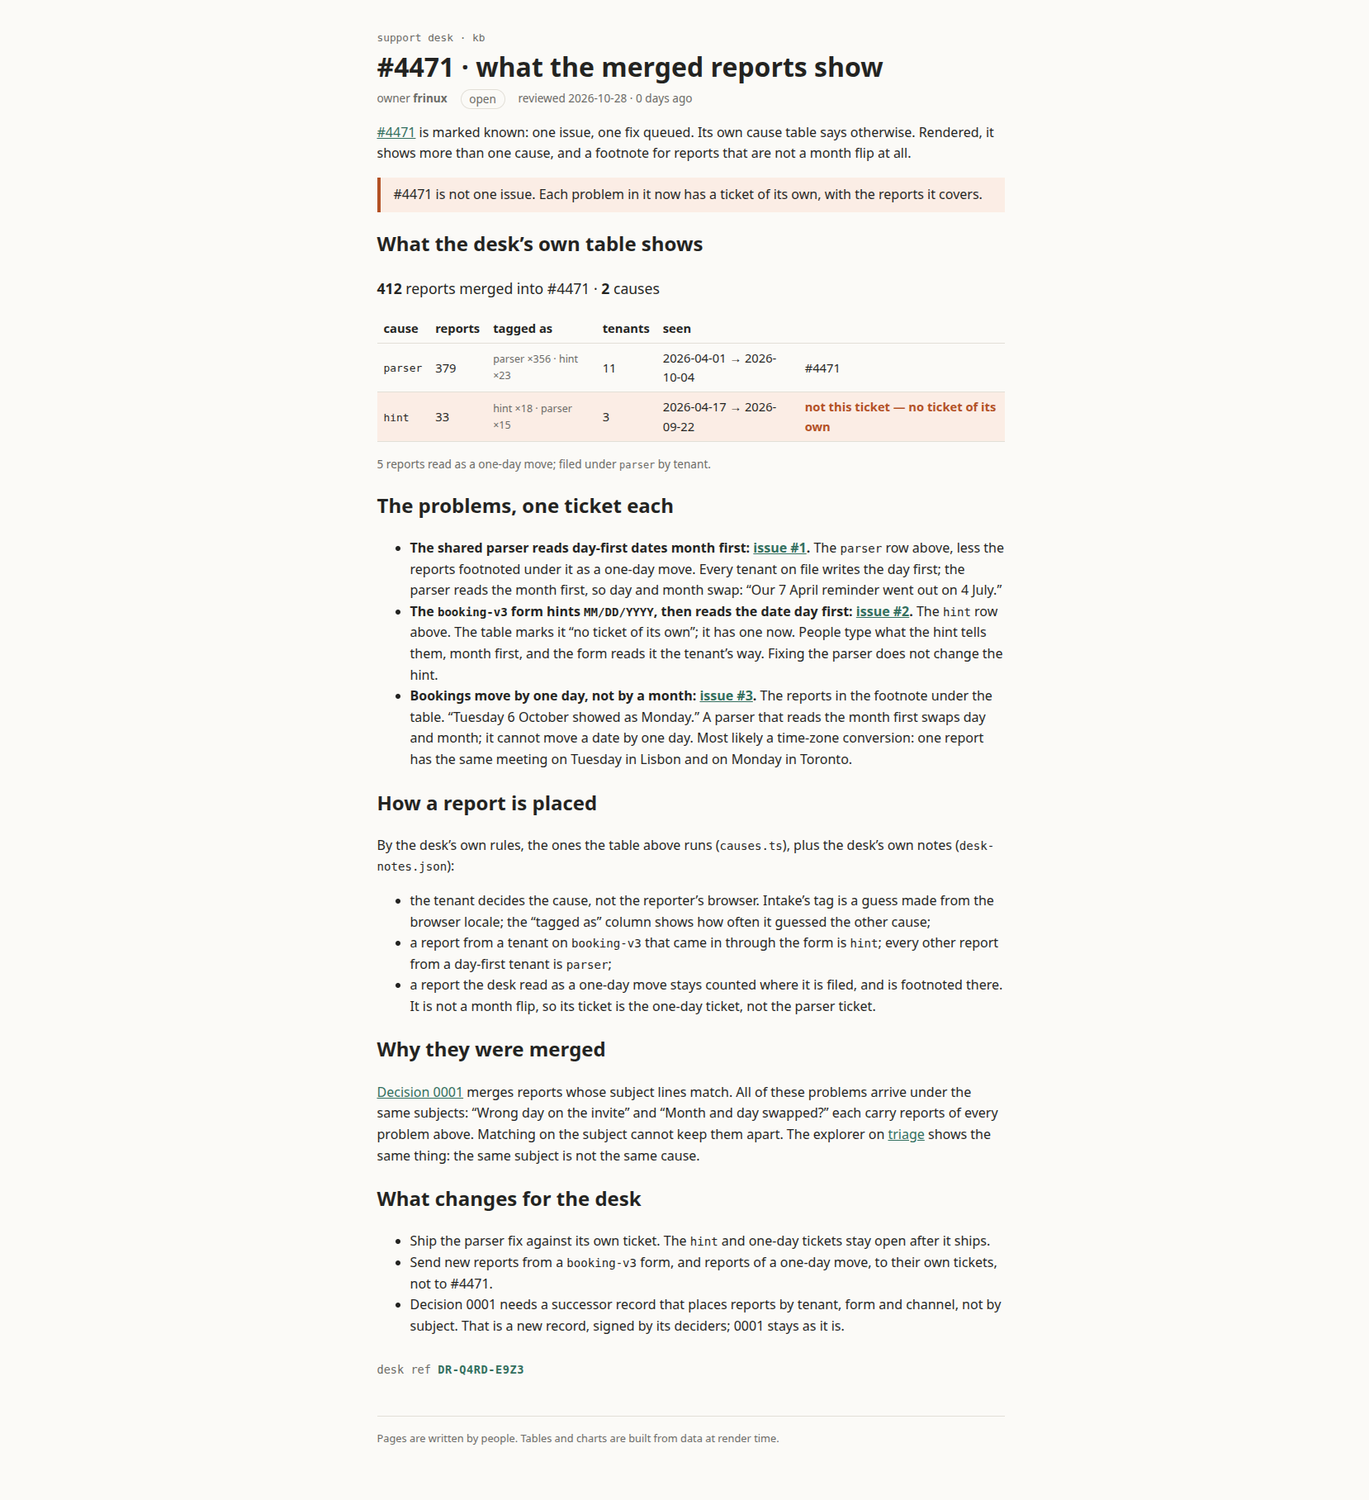
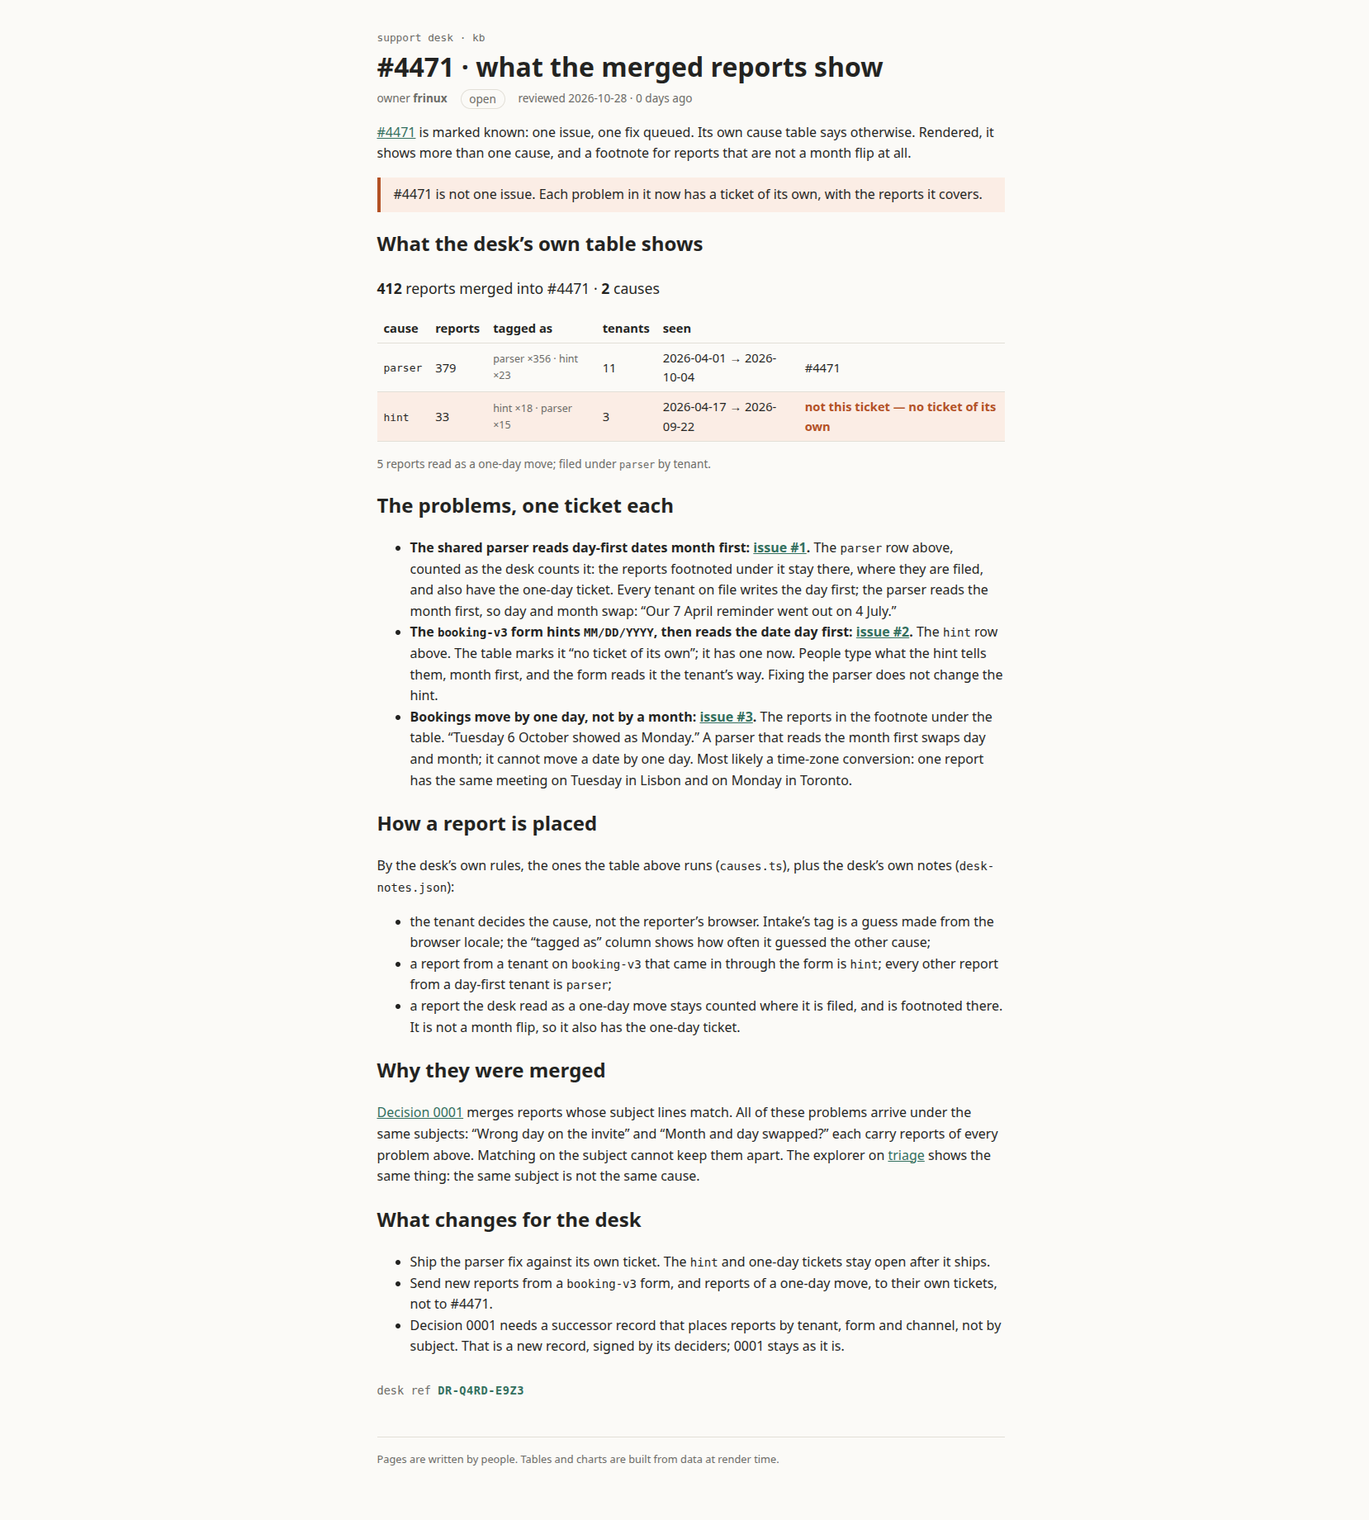
Page: parser counted as the desk counts it
The parser row keeps the reports footnoted as a one-day move, as the
desk's cause table does; the one-day ticket tracks them too. Matches
issue #1 (379 reports).

Changed region(s): [[0.2768, 0.0308, 0.7382, 0.9251], [0.2768, 0.9559, 0.3691, 0.9868]]

diff --git a/rendered/site/kb/incidents/4471/problems/index.html b/rendered/site/kb/incidents/4471/problems/index.html
@@ -9,11 +9,11 @@
 		<link href="../../../../_app/immutable/chunks/B2Ul7l_u.js" rel="modulepreload">
 		<link href="../../../../_app/immutable/chunks/BCPXOG7W.js" rel="modulepreload">
 		<link href="../../../../_app/immutable/chunks/Dh1V97Jm.js" rel="modulepreload">
-		<link href="../../../../_app/immutable/entry/app.IrpKXhLr.js" rel="modulepreload">
+		<link href="../../../../_app/immutable/entry/app.D68p9QW8.js" rel="modulepreload">
 		<link href="../../../../_app/immutable/nodes/0.BurGglGN.js" rel="modulepreload">
 		<link href="../../../../_app/immutable/chunks/DK3Fl9T5.js" rel="modulepreload">
-		<link href="../../../../_app/immutable/nodes/5.DiIomM6Q.js" rel="modulepreload">
-		<link href="../../../../_app/immutable/chunks/P4LIiT0T.js" rel="modulepreload">
+		<link href="../../../../_app/immutable/nodes/5.C832iTxc.js" rel="modulepreload">
+		<link href="../../../../_app/immutable/chunks/BtDhddv2.js" rel="modulepreload">
 		<link href="../../../../_app/immutable/chunks/BTPwLomz.js" rel="modulepreload">
 		<link href="../../../../_app/immutable/chunks/D_eX76ox.js" rel="modulepreload">
 		<link href="../../../../_app/immutable/chunks/BIy4WKJS.js" rel="modulepreload">
@@ -28,7 +28,8 @@
 says otherwise. Rendered, it shows more than one cause, and a footnote for reports that are
 not a month flip at all.</p> <aside class="warn svelte-17bri61"><!---->#4471 is not one issue. Each problem in it now has a ticket of its own, with the reports it
 covers.<!----></aside><!----> <h2>What the desk’s own table shows</h2> <p class="sum svelte-12oyimm"><strong>412</strong> reports merged into #4471 · <strong>2</strong> causes</p> <table><thead><tr><th>cause</th><th>reports</th><th>tagged as</th><th>tenants</th><th>seen</th><th></th></tr></thead><tbody><!--[--><tr class="svelte-12oyimm"><td class="svelte-12oyimm"><code>parser</code></td><td class="svelte-12oyimm">379</td><td class="tags svelte-12oyimm">parser ×356 · hint ×23</td><td class="svelte-12oyimm">11</td><td class="svelte-12oyimm">2026-04-01 → 2026-10-04</td><td class="svelte-12oyimm">#4471</td></tr><tr class="svelte-12oyimm wrong"><td class="svelte-12oyimm"><code>hint</code></td><td class="svelte-12oyimm">33</td><td class="tags svelte-12oyimm">hint ×18 · parser ×15</td><td class="svelte-12oyimm">3</td><td class="svelte-12oyimm">2026-04-17 → 2026-09-22</td><td class="svelte-12oyimm">not this ticket — no ticket of its own</td></tr><!--]--></tbody></table> <!--[--><!--[0--><p class="note svelte-12oyimm">5 reports read as a one-day move; filed under <code>parser</code> by tenant.</p><!--]--><!--[-1--><!--]--><!--]--><!----> <h2>The problems, one ticket each</h2> <ul><li><strong>The shared parser reads day-first dates month first: <a href="https://github.com/frinux/mega-s01e03-support-kb/issues/1" rel="nofollow">issue #1</a>.</strong> The <code>parser</code> row
-above, less the reports footnoted under it as a one-day move. Every tenant on file writes
+above, counted as the desk counts it: the reports footnoted under it stay there, where they
+are filed, and also have the one-day ticket. Every tenant on file writes
 the day first; the parser reads the month first, so day and month swap: “Our 7 April
 reminder went out on 4 July.”</li> <li><strong>The <code>booking-v3</code> form hints <code>MM/DD/YYYY</code>, then reads the date day first: <a href="https://github.com/frinux/mega-s01e03-support-kb/issues/2" rel="nofollow">issue #2</a>.</strong> The <code>hint</code> row
 above. The table marks it “no ticket of its own”; it has one now. People type what the hint
@@ -40,7 +41,7 @@ conversion: one report has the same meeting on Tuesday in Lisbon and on Monday i
 notes (<code>desk-notes.json</code>):</p> <ul><li>the tenant decides the cause, not the reporter’s browser. Intake’s tag is a guess made from
 the browser locale; the “tagged as” column shows how often it guessed the other cause;</li> <li>a report from a tenant on <code>booking-v3</code> that came in through the form is <code>hint</code>; every other
 report from a day-first tenant is <code>parser</code>;</li> <li>a report the desk read as a one-day move stays counted where it is filed, and is footnoted
-there. It is not a month flip, so its ticket is the one-day ticket, not the parser ticket.</li></ul> <h2>Why they were merged</h2> <p><a href="/kb/decisions/0001-dedupe-by-subject">Decision 0001</a> merges reports whose subject lines
+there. It is not a month flip, so it also has the one-day ticket.</li></ul> <h2>Why they were merged</h2> <p><a href="/kb/decisions/0001-dedupe-by-subject">Decision 0001</a> merges reports whose subject lines
 match. All of these problems arrive under the same subjects: “Wrong day on the invite” and
 “Month and day swapped?” each carry reports of every problem above. Matching on the subject
 cannot keep them apart. The explorer on <a href="/kb/triage/dedupe">triage</a> shows the same thing:
@@ -51,16 +52,16 @@ not by subject. That is a new record, signed by its deciders; 0001 stays as it i
 			
 			<script>
 				{
-					__sveltekit_8fy4ou = {
+					__sveltekit_88kd6i = {
 						base: new URL("../../../..", location).pathname.slice(0, -1),
-						version: "1793209737935"
+						version: "1793209880459"
 					};
 
 					const element = document.currentScript.parentElement;
 
 					import("../../../../_app/immutable/entry/start.CH5w6lId.js").then(async (kit) => {
-						kit.init(__sveltekit_8fy4ou);
-						const app = await import("../../../../_app/immutable/entry/app.IrpKXhLr.js");
+						kit.init(__sveltekit_88kd6i);
+						const app = await import("../../../../_app/immutable/entry/app.D68p9QW8.js");
 						kit.start(app, element, {
 							node_ids: [0, 5],
 							data: [null,null],

diff --git a/rendered/site/_app/immutable/chunks/BtDhddv2.js b/rendered/site/_app/immutable/chunks/BtDhddv2.js
@@ -1,7 +1,8 @@
 import{t as e}from"./DK3Fl9T5.js";import{E as t,F as n,H as r,I as i,K as a,L as o,N as s,O as c,R as l,S as u,T as d,U as f,W as p,_ as m,k as h,q as g,r as _,t as v,w as y}from"./BCPXOG7W.js";import{t as b}from"./BTPwLomz.js";import{t as x}from"./D_eX76ox.js";import{t as S}from"./BIy4WKJS.js";var C=`0123456789ABCDEFGHJKMNPQRSTVWXYZ`;function w(e,t){let n=t>>>0;for(let t=0;t<e.length;t++)n^=e.charCodeAt(t),n=Math.imul(n,16777619)>>>0;return n}function T(e){let t=e.trim(),n=w(t,2166136261),r=w(t,2654435769),i=BigInt(n)<<8n|BigInt(r&255),a=``;for(let e=0;e<8;e++)a=C[Number(i&31n)]+a,i>>=5n;return`DR-${a.slice(0,4)}-${a.slice(4)}`}var E=t(`<p class="stamp svelte-1280m42">desk ref <b class="svelte-1280m42"> </b></p>`),D=t(`<p class="stamp missing svelte-1280m42">no desk ref: this page isn't signed (no <code>signature</code> in its frontmatter)</p>`);function O(e,t){p(t,!0);let a=r(()=>t.signature?T(t.signature):null);var c=d(),_=i(c),v=e=>{var t=E(),r=l(n(t)),i=o(r,!0);g(t),s(()=>u(i,h(a))),y(e,t)},b=e=>{var t=D();y(e,t)};m(_,e=>{h(a)?e(v):e(b,-1)}),y(e,c),f()}var k=e({default:()=>R,metadata:()=>A}),A={layout:`runbook`,title:`#4471 · what the merged reports show`,owner:`frinux`,status:`open`,reviewed:`2026-10-28T00:00:00.000Z`,signature:`frinux`},{layout:j,title:M,owner:N,status:P,reviewed:F,signature:I}=A,L=t(`<p><a href="/kb/incidents/4471">#4471</a> is marked known: one issue, one fix queued. Its own cause table
 says otherwise. Rendered, it shows more than one cause, and a footnote for reports that are
 not a month flip at all.</p> <!> <h2>What the desk’s own table shows</h2> <!> <h2>The problems, one ticket each</h2> <ul><li><strong>The shared parser reads day-first dates month first: <a href="https://github.com/frinux/mega-s01e03-support-kb/issues/1" rel="nofollow">issue #1</a>.</strong> The <code>parser</code> row
-above, less the reports footnoted under it as a one-day move. Every tenant on file writes
+above, counted as the desk counts it: the reports footnoted under it stay there, where they
+are filed, and also have the one-day ticket. Every tenant on file writes
 the day first; the parser reads the month first, so day and month swap: “Our 7 April
 reminder went out on 4 July.”</li> <li><strong>The <code>booking-v3</code> form hints <code>MM/DD/YYYY</code>, then reads the date day first: <a href="https://github.com/frinux/mega-s01e03-support-kb/issues/2" rel="nofollow">issue #2</a>.</strong> The <code>hint</code> row
 above. The table marks it “no ticket of its own”; it has one now. People type what the hint
@@ -13,7 +14,7 @@ conversion: one report has the same meeting on Tuesday in Lisbon and on Monday i
 notes (<code>desk-notes.json</code>):</p> <ul><li>the tenant decides the cause, not the reporter’s browser. Intake’s tag is a guess made from
 the browser locale; the “tagged as” column shows how often it guessed the other cause;</li> <li>a report from a tenant on <code>booking-v3</code> that came in through the form is <code>hint</code>; every other
 report from a day-first tenant is <code>parser</code>;</li> <li>a report the desk read as a one-day move stays counted where it is filed, and is footnoted
-there. It is not a month flip, so its ticket is the one-day ticket, not the parser ticket.</li></ul> <h2>Why they were merged</h2> <p><a href="/kb/decisions/0001-dedupe-by-subject">Decision 0001</a> merges reports whose subject lines
+there. It is not a month flip, so it also has the one-day ticket.</li></ul> <h2>Why they were merged</h2> <p><a href="/kb/decisions/0001-dedupe-by-subject">Decision 0001</a> merges reports whose subject lines
 match. All of these problems arrive under the same subjects: “Wrong day on the invite” and
 “Month and day swapped?” each carry reports of every problem above. Matching on the subject
 cannot keep them apart. The explorer on <a href="/kb/triage/dedupe">triage</a> shows the same thing:

diff --git a/rendered/site/_app/immutable/nodes/2.B8LXgTn_.js b/rendered/site/_app/immutable/nodes/2.B8LXgTn_.js
@@ -1,0 +1,2 @@
+import{E as e,F as t,I as n,K as r,L as i,N as a,R as o,S as s,U as c,W as l,c as u,d,h as f,i as p,k as m,q as h,r as g,t as _,w as v}from"../chunks/BCPXOG7W.js";import{n as y,r as b,t as x}from"../chunks/BTPwLomz.js";import{t as S}from"../chunks/YX22L_Ud.js";import{t as C}from"../chunks/C7NBqcQG.js";import{t as w}from"../chunks/BtDhddv2.js";import{t as T}from"../chunks/BGqJVSDw.js";var E=e(`<tr><td><a> </a></td><td> </td><td> </td><td> </td></tr>`),D=e(`<table><thead><tr><th>page</th><th>owner</th><th>status</th><th>reviewed</th></tr></thead><tbody></tbody></table>`);function O(e,n){l(n,!1);let r=Object.entries(Object.assign({"/src/routes/kb/decisions/0001-dedupe-by-subject/+page.svx":S,"/src/routes/kb/incidents/4471/+page.svx":C,"/src/routes/kb/incidents/4471/problems/+page.svx":w,"/src/routes/kb/triage/dedupe/+page.svx":T})).map(([e,t])=>({href:e.replace(`/src/routes`,``).replace(`/+page.svx`,``),...t.metadata})).sort((e,t)=>e.href.localeCompare(t.href));p();var g=D(),_=o(t(g));f(_,5,()=>r,e=>e.href,(e,n)=>{var r=E(),c=t(r),l=t(c),f=i(l,!0);h(c);var p=o(c),g=i(p,!0),_=o(p),x=i(_,!0),S=o(_);let C;var w=i(S,!0);h(r),a((e,t)=>{u(l,`href`,m(n).href),s(f,m(n).title),s(g,m(n).owner),s(x,m(n).status),C=d(S,1,`svelte-tbc1ha`,null,C,{stale:e}),s(w,t)},[()=>y(m(n).reviewed)>180,()=>b(m(n).reviewed)]),v(e,r)}),h(_),h(g),v(e,g),c()}var k={layout:`runbook`,title:`Support knowledge base`,owner:`support desk`,status:`living`,reviewed:`2026-09-28T00:00:00.000Z`},{layout:A,title:j,owner:M,status:N,reviewed:P}=k,F=e(`<p>What the support desk knows, kept next to the code that knows it. One desk, every product: <code>sched-prod</code> (calendar invites for about 300k people) and the rest. When something breaks, the reports land here first.</p> <p>Start with <a href="/kb/triage/dedupe">triage</a> if you are new on the desk.</p> <h2>Pages</h2> <!> <h2>Writing a page</h2> <p>Keep the words here and the logic in <code>src/lib</code>. A number that can be computed should be
+computed by a component, not typed into a paragraph.</p>`,1);function I(e,t){let i=_(t,[`children`,`$$slots`,`$$events`,`$$legacy`]);x(e,g(()=>i,()=>k,{children:(e,t)=>{var i=F();O(o(n(i),6),{}),r(4),v(e,i)},$$slots:{default:!0}}))}export{I as component};

diff --git a/rendered/site/kb/index.html b/rendered/site/kb/index.html
@@ -9,16 +9,16 @@
 		<link href="../_app/immutable/chunks/B2Ul7l_u.js" rel="modulepreload">
 		<link href="../_app/immutable/chunks/BCPXOG7W.js" rel="modulepreload">
 		<link href="../_app/immutable/chunks/Dh1V97Jm.js" rel="modulepreload">
-		<link href="../_app/immutable/entry/app.IrpKXhLr.js" rel="modulepreload">
+		<link href="../_app/immutable/entry/app.D68p9QW8.js" rel="modulepreload">
 		<link href="../_app/immutable/nodes/0.BurGglGN.js" rel="modulepreload">
 		<link href="../_app/immutable/chunks/DK3Fl9T5.js" rel="modulepreload">
-		<link href="../_app/immutable/nodes/2.7tSA5iwi.js" rel="modulepreload">
+		<link href="../_app/immutable/nodes/2.B8LXgTn_.js" rel="modulepreload">
 		<link href="../_app/immutable/chunks/BTPwLomz.js" rel="modulepreload">
 		<link href="../_app/immutable/chunks/YX22L_Ud.js" rel="modulepreload">
 		<link href="../_app/immutable/chunks/C7NBqcQG.js" rel="modulepreload">
 		<link href="../_app/immutable/chunks/D_eX76ox.js" rel="modulepreload">
 		<link href="../_app/immutable/chunks/BIy4WKJS.js" rel="modulepreload">
-		<link href="../_app/immutable/chunks/P4LIiT0T.js" rel="modulepreload">
+		<link href="../_app/immutable/chunks/BtDhddv2.js" rel="modulepreload">
 		<link href="../_app/immutable/chunks/BGqJVSDw.js" rel="modulepreload">
 		<!--e2jw2j--><!----><title>Support knowledge base · support kb</title>
 		<link href="../_app/immutable/assets/runbook.COyw0cbZ.css" rel="stylesheet">
@@ -35,16 +35,16 @@ computed by a component, not typed into a paragraph.</p><!----></main> <footer c
 			
 			<script>
 				{
-					__sveltekit_8fy4ou = {
+					__sveltekit_88kd6i = {
 						base: new URL("..", location).pathname.slice(0, -1),
-						version: "1793209737935"
+						version: "1793209880459"
 					};
 
 					const element = document.currentScript.parentElement;
 
 					import("../_app/immutable/entry/start.CH5w6lId.js").then(async (kit) => {
-						kit.init(__sveltekit_8fy4ou);
-						const app = await import("../_app/immutable/entry/app.IrpKXhLr.js");
+						kit.init(__sveltekit_88kd6i);
+						const app = await import("../_app/immutable/entry/app.D68p9QW8.js");
 						kit.start(app, element, {
 							node_ids: [0, 2],
 							data: [null,null],

diff --git a/rendered/site/_app/immutable/entry/app.D68p9QW8.js b/rendered/site/_app/immutable/entry/app.D68p9QW8.js
@@ -1,0 +1,2 @@
+const __vite__mapDeps=(i,m=__vite__mapDeps,d=(m.f||(m.f=["../nodes/0.BurGglGN.js","../chunks/DK3Fl9T5.js","../chunks/BCPXOG7W.js","../nodes/1.mOwa9YdW.js","../chunks/Dh1V97Jm.js","./payload.DSmR2FwN.js","../nodes/2.B8LXgTn_.js","../chunks/BTPwLomz.js","../assets/runbook.COyw0cbZ.css","../chunks/YX22L_Ud.js","../chunks/C7NBqcQG.js","../chunks/D_eX76ox.js","../chunks/BIy4WKJS.js","../assets/Callout.AbLv9dM_.css","../assets/CauseTable.DuKfINX_.css","../assets/_page.BwRNheVv.css","../chunks/BtDhddv2.js","../assets/_page.WePi3wDe.css","../chunks/BGqJVSDw.js","../assets/_page.DO6Yid7X.css","../assets/2.Bt0MwIZg.css","../nodes/3.DRxPfvn3.js","../nodes/4.r04HXAAh.js","../nodes/5.C832iTxc.js","../nodes/6.sFtxrtyV.js"])))=>i.map(i=>d[i]);
+import{t as e}from"../chunks/CRzLMJPS.js";var t={},n=[()=>e(()=>import(`../nodes/0.BurGglGN.js`),__vite__mapDeps([0,1,2]),import.meta.url),()=>e(()=>import(`../nodes/1.mOwa9YdW.js`),__vite__mapDeps([3,2,4,5]),import.meta.url),()=>e(()=>import(`../nodes/2.B8LXgTn_.js`),__vite__mapDeps([6,2,7,8,9,1,10,11,12,13,14,15,16,17,18,19,20]),import.meta.url),()=>e(()=>import(`../nodes/3.DRxPfvn3.js`),__vite__mapDeps([21,9,1,2,7,8]),import.meta.url),()=>e(()=>import(`../nodes/4.r04HXAAh.js`),__vite__mapDeps([22,10,1,2,7,8,11,12,13,14,15]),import.meta.url),()=>e(()=>import(`../nodes/5.C832iTxc.js`),__vite__mapDeps([23,16,1,2,7,8,11,12,13,14,17]),import.meta.url),()=>e(()=>import(`../nodes/6.sFtxrtyV.js`),__vite__mapDeps([24,18,1,2,7,8,12,13,19]),import.meta.url)],r=[],i={"/kb":[2],"/kb/decisions/0001-dedupe-by-subject":[3],"/kb/incidents/4471":[4],"/kb/incidents/4471/problems":[5],"/kb/triage/dedupe":[6]},a={handleError:(({kind:e,error:t})=>{e===`unknown`&&console.error(t)}),reroute:(()=>{}),transport:{}},o=Object.fromEntries(Object.entries(a.transport).map(([e,t])=>[e,t.decode])),s=Object.fromEntries(Object.entries(a.transport).map(([e,t])=>[e,t.encode])),c=!1,l=(e,t)=>o[e](t),u=()=>e(()=>import(`../chunks/Bjy-W4x2.js`).then(e=>e.default),[],import.meta.url);export{l as decode,o as decoders,i as dictionary,s as encoders,u as get_error_template,c as hash,a as hooks,t as matchers,n as nodes,r as server_loads};

diff --git a/rendered/site/kb/decisions/0001-dedupe-by-subject/index.html b/rendered/site/kb/decisions/0001-dedupe-by-subject/index.html
@@ -9,7 +9,7 @@
 		<link href="../../../_app/immutable/chunks/B2Ul7l_u.js" rel="modulepreload">
 		<link href="../../../_app/immutable/chunks/BCPXOG7W.js" rel="modulepreload">
 		<link href="../../../_app/immutable/chunks/Dh1V97Jm.js" rel="modulepreload">
-		<link href="../../../_app/immutable/entry/app.IrpKXhLr.js" rel="modulepreload">
+		<link href="../../../_app/immutable/entry/app.D68p9QW8.js" rel="modulepreload">
 		<link href="../../../_app/immutable/nodes/0.BurGglGN.js" rel="modulepreload">
 		<link href="../../../_app/immutable/chunks/DK3Fl9T5.js" rel="modulepreload">
 		<link href="../../../_app/immutable/nodes/3.DRxPfvn3.js" rel="modulepreload">
@@ -26,16 +26,16 @@ engineering merges them later.</li></ul><!----></main> <footer class="svelte-e2j
 			
 			<script>
 				{
-					__sveltekit_8fy4ou = {
+					__sveltekit_88kd6i = {
 						base: new URL("../../..", location).pathname.slice(0, -1),
-						version: "1793209737935"
+						version: "1793209880459"
 					};
 
 					const element = document.currentScript.parentElement;
 
 					import("../../../_app/immutable/entry/start.CH5w6lId.js").then(async (kit) => {
-						kit.init(__sveltekit_8fy4ou);
-						const app = await import("../../../_app/immutable/entry/app.IrpKXhLr.js");
+						kit.init(__sveltekit_88kd6i);
+						const app = await import("../../../_app/immutable/entry/app.D68p9QW8.js");
 						kit.start(app, element, {
 							node_ids: [0, 3],
 							data: [null,null],

diff --git a/rendered/site/kb/incidents/4471/index.html b/rendered/site/kb/incidents/4471/index.html
@@ -9,7 +9,7 @@
 		<link href="../../../_app/immutable/chunks/B2Ul7l_u.js" rel="modulepreload">
 		<link href="../../../_app/immutable/chunks/BCPXOG7W.js" rel="modulepreload">
 		<link href="../../../_app/immutable/chunks/Dh1V97Jm.js" rel="modulepreload">
-		<link href="../../../_app/immutable/entry/app.IrpKXhLr.js" rel="modulepreload">
+		<link href="../../../_app/immutable/entry/app.D68p9QW8.js" rel="modulepreload">
 		<link href="../../../_app/immutable/nodes/0.BurGglGN.js" rel="modulepreload">
 		<link href="../../../_app/immutable/chunks/DK3Fl9T5.js" rel="modulepreload">
 		<link href="../../../_app/immutable/nodes/4.r04HXAAh.js" rel="modulepreload">
@@ -30,16 +30,16 @@ first. The fix is queued.</p> <aside class="note svelte-17bri61"><!---->Known. O
 			
 			<script>
 				{
-					__sveltekit_8fy4ou = {
+					__sveltekit_88kd6i = {
 						base: new URL("../../..", location).pathname.slice(0, -1),
-						version: "1793209737935"
+						version: "1793209880459"
 					};
 
 					const element = document.currentScript.parentElement;
 
 					import("../../../_app/immutable/entry/start.CH5w6lId.js").then(async (kit) => {
-						kit.init(__sveltekit_8fy4ou);
-						const app = await import("../../../_app/immutable/entry/app.IrpKXhLr.js");
+						kit.init(__sveltekit_88kd6i);
+						const app = await import("../../../_app/immutable/entry/app.D68p9QW8.js");
 						kit.start(app, element, {
 							node_ids: [0, 4],
 							data: [null,null],

diff --git a/rendered/site/kb/triage/dedupe/index.html b/rendered/site/kb/triage/dedupe/index.html
@@ -9,7 +9,7 @@
 		<link href="../../../_app/immutable/chunks/B2Ul7l_u.js" rel="modulepreload">
 		<link href="../../../_app/immutable/chunks/BCPXOG7W.js" rel="modulepreload">
 		<link href="../../../_app/immutable/chunks/Dh1V97Jm.js" rel="modulepreload">
-		<link href="../../../_app/immutable/entry/app.IrpKXhLr.js" rel="modulepreload">
+		<link href="../../../_app/immutable/entry/app.D68p9QW8.js" rel="modulepreload">
 		<link href="../../../_app/immutable/nodes/0.BurGglGN.js" rel="modulepreload">
 		<link href="../../../_app/immutable/chunks/DK3Fl9T5.js" rel="modulepreload">
 		<link href="../../../_app/immutable/nodes/6.sFtxrtyV.js" rel="modulepreload">
@@ -29,16 +29,16 @@ anything else.<!----></aside><!----> <h2>Try it</h2> <div class="try svelte-gq0h
 			
 			<script>
 				{
-					__sveltekit_8fy4ou = {
+					__sveltekit_88kd6i = {
 						base: new URL("../../..", location).pathname.slice(0, -1),
-						version: "1793209737935"
+						version: "1793209880459"
 					};
 
 					const element = document.currentScript.parentElement;
 
 					import("../../../_app/immutable/entry/start.CH5w6lId.js").then(async (kit) => {
-						kit.init(__sveltekit_8fy4ou);
-						const app = await import("../../../_app/immutable/entry/app.IrpKXhLr.js");
+						kit.init(__sveltekit_88kd6i);
+						const app = await import("../../../_app/immutable/entry/app.D68p9QW8.js");
 						kit.start(app, element, {
 							node_ids: [0, 6],
 							data: [null,null],

diff --git a/rendered/site/_app/immutable/nodes/5.C832iTxc.js b/rendered/site/_app/immutable/nodes/5.C832iTxc.js
@@ -1,0 +1,1 @@
+export{n as component}from"../chunks/BtDhddv2.js";
